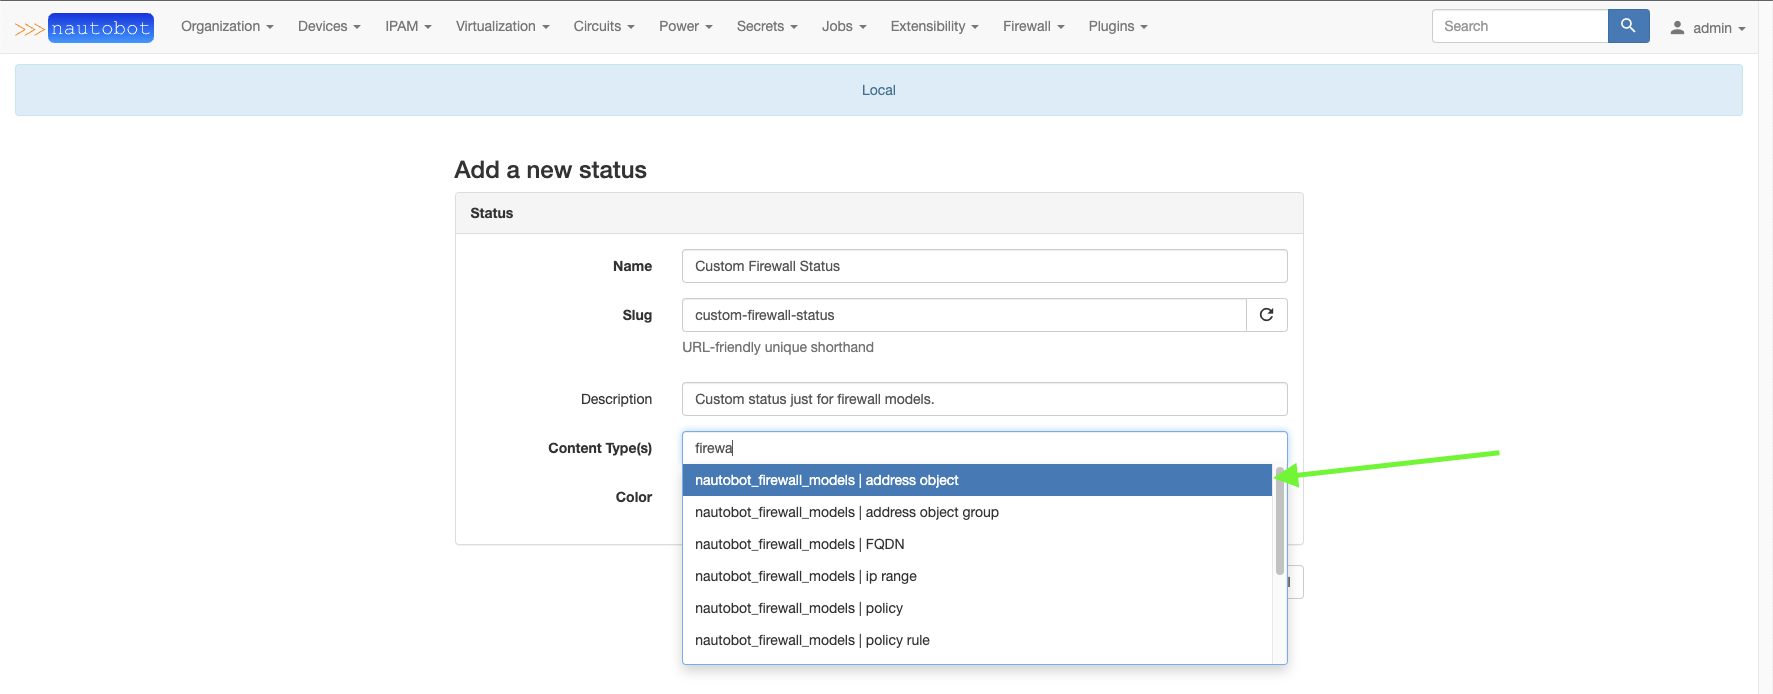
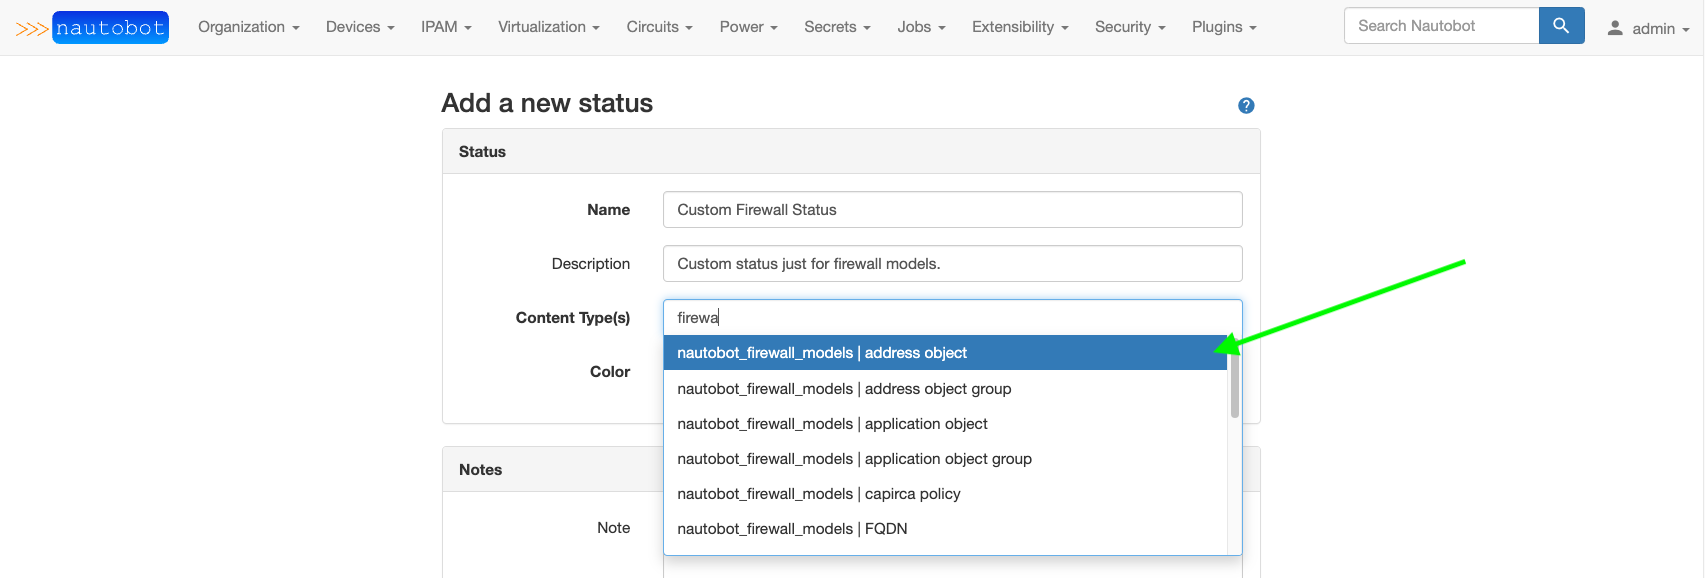
Update docs with v2 changes

diff --git a/docs/admin/install.md b/docs/admin/install.md
@@ -61,15 +61,15 @@ sudo systemctl restart nautobot nautobot-worker nautobot-scheduler
 
 ## App Configuration
 
-Models provided by this plugin have a `status` attribute and the default `status` is set to use `active`. This corresponds to the pre-built Nautobot `Active` Status object.
+Models provided by this plugin have a `status` attribute and the default `status` is set to use `Active`. This corresponds to the pre-built Nautobot `Active` Status object.
 
 Use the `default_status` plugin configuration setting to change the default value for the `status` attribute.
 
 ```python
 PLUGINS_CONFIG = {
     "nautobot_firewall_models": {
-        "default_status": "active"
-        "allowed_status": ["active"], # default shown, `[]` allows all
+        "default_status": "Active"
+        "allowed_status": ["Active"], # default shown, `[]` allows all
         "capirca_remark_pass": True,
         "capirca_os_map": {
             "cisco_ios": "cisco",
@@ -80,7 +80,9 @@ PLUGINS_CONFIG = {
 }
 ```
 
-The value assigned to `default_status` must match the slug of an existing Nautobot Status object. That Status object must have all of the Firewall Models listed in the Content Type associations. See examples below on selecting the Content Type(s) when creating/editing a Status object and the pre-built `Active` Status with firewall content types added.
+The value assigned to `default_status` must match the name of an existing Nautobot Status object. That Status object must have all of the Firewall Models listed in the Content Type associations. See examples below on selecting the Content Type(s) when creating/editing a Status object and the pre-built `Active` Status with firewall content types added.
+
+> Note: In Nautobot v1.x, the `default_status` must match the slug on an existing Nautobot Status object, not the name. Nautobot v2 moved away from using slugs entirely, instead using the name as an identifier.
 
 ![Custom Status](../images/custom-status.png "Custom Status")
 
